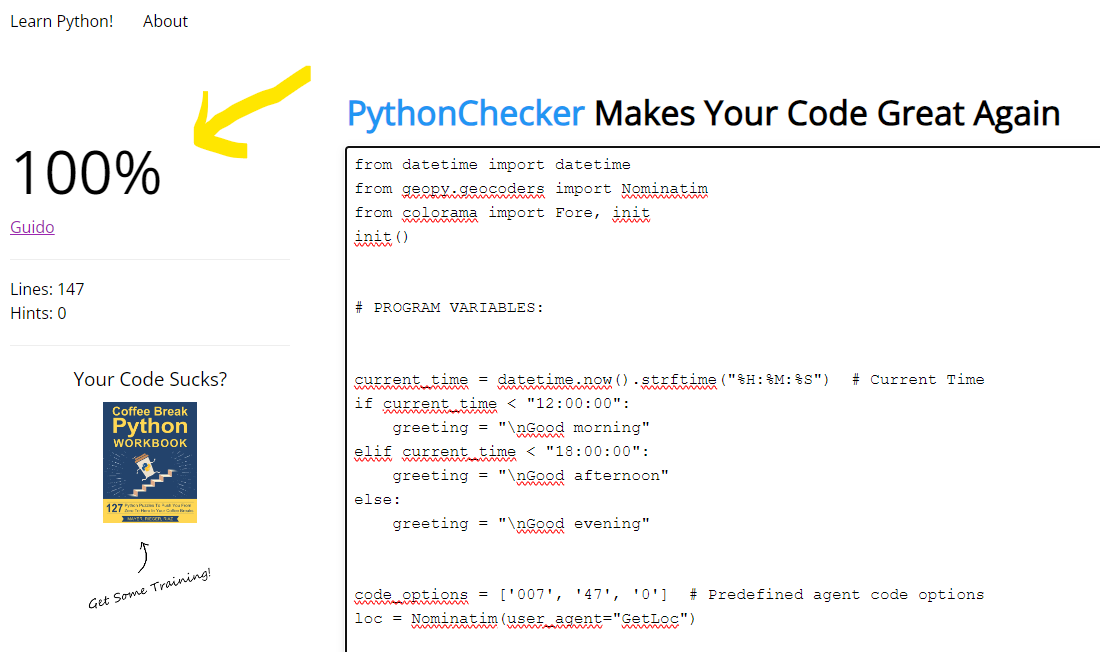
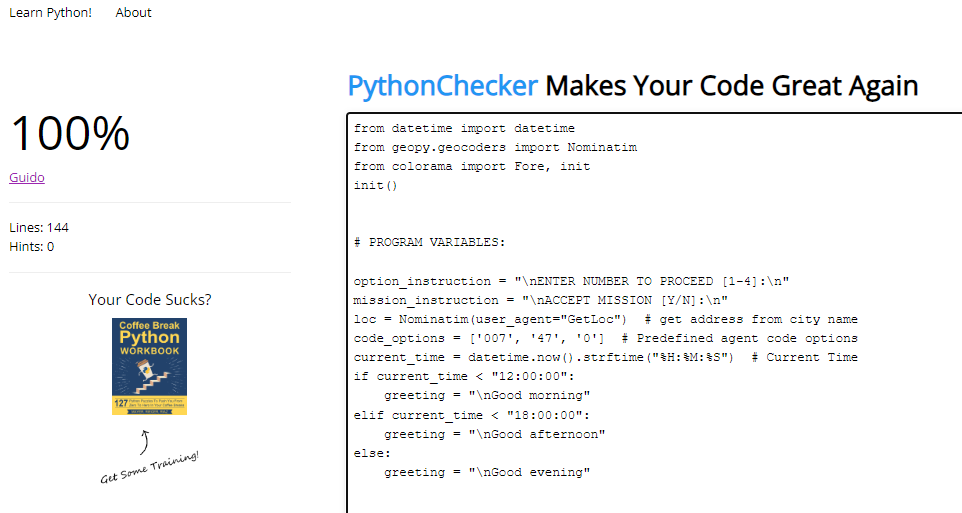
completed manual testing notes

diff --git a/run.py b/run.py
@@ -7,7 +7,7 @@ init()
 # PROGRAM VARIABLES:
 
 option_instruction = "\nENTER NUMBER TO PROCEED [1-4]:\n"
-mission_instruction = "ACCEPT MISSION [Y/N]:\n"
+mission_instruction = "\nACCEPT MISSION [Y/N]:\n"
 loc = Nominatim(user_agent="GetLoc")  # get address from city name
 code_options = ['007', '47', '0']  # Predefined agent code options
 current_time = datetime.now().strftime("%H:%M:%S")  # Current Time

diff --git a/README.md b/README.md
@@ -60,19 +60,21 @@ Fetches GPS Co-ordinates of the next target.
 ### Manual Testing
 | Test Function | Action    | Result    |
 | ---           | ---       | ---       |
-| agent_code()  | Deny access to the application if the input does not match the predetermined list of agent codes defined in the 'code_options' variable. Also provide a reason if denied | PASS: The function works as expected |
-| greeting      | When the agent successfully enters the application, the app detects current time and displays a message message of either 'good morning', 'good afternoon' or 'good evening' to the user as well as the exact time they started their session as defined in the 'current_time' and 'greeting' variable  | PASS: The function works as expected |
-| menu |||
-| 1 |||
-| 2 |||
-| 3 |||
-| continue |||
-| 4 |||
-| end |||
+| agent_code()  | In order to access the application, the user has to enter a specific agent code from a list of predefined options found in the 'code_options' variable. The application denies access to the user if the code is invalid. If the code is inavalid, send a response back to the user for a possible reason why they cannot access the application. | PASS: The function works as expected |
+| greeting      | When the agent successfully enters the application, the app detects current time and displays a message of either 'good morning', 'good afternoon' or 'good evening' to the user as well as the exact time they started their session as defined in the 'current_time' and 'greeting' variables  | PASS: The function works as expected |
+| show_options() | Below the greeting message, the user is presented with a numbered list of options. They will input a number from 1-4 and press the 'enter' key which will call the option_responses() function. The user can only input numbers '1', '2', '3' in order to view the next mission details and accept/reject the mission and the user can exit the application if they insert '4'.  | PASS: All numbers 1-4 respond as expected. |
+| 1 : option_responses() > answer_one() | When the user chooses option 1, the answer_one() function is called detailing the mission target details. This information includes the use of the Geopy package to display the address and gps co-ordinates of the the next target. | PASS: both option_responses() and answer_one() function as expected. |
+| 2 : option_responses() > answer_two() | When the user chooses option 2, the answer_two() function is called detailing the instructions to collect equipment and documents for the next mission. | PASS: both option_responses() and answer_two() function as expected. |
+| 3 : option_responses() > answer_three() | When the user chooses option 3, the answer_three() function is called asking the user if they accept the mission or not by entering 'y' for yes or 'n' for no in either upper or lowercase. If they choose yes, the app responds to the user confirming the mission is accepted and they are logged out of the application. If they choose not to accept the mission, the app responds with a message confirming the user did not accept the mission and then the application terminates the session. | PASS: both option_responses() and answer_three() function as expected. |
+| continue_session() | After responses '1' and '2', the user is asked if they would like to continue the session or not by entering 'y' for yes or 'n' for no in either upper or lowercase. If yes the show_options() function is called and the user can choose from the options 1-4 again. If the user chooses no, the the application terminates. | PASS: functions as expected. |
+| 4 : quit() | if the user chooses option 4 from the main menu, the application will run the default quit() function and terminate the session. | PASS: functions as expected. |
+||||
 
 
 ### PEP8
 Manual testing performed in https://www.pythonchecker.com/ and https://pep8ci.herokuapp.com/ which yielded no errors.
+
+![PEP8 PythonCehcker](/images/PEP8_Test.png)  
 
 ![CI Python Linter](/images/ci_python_linter.png)  
 
